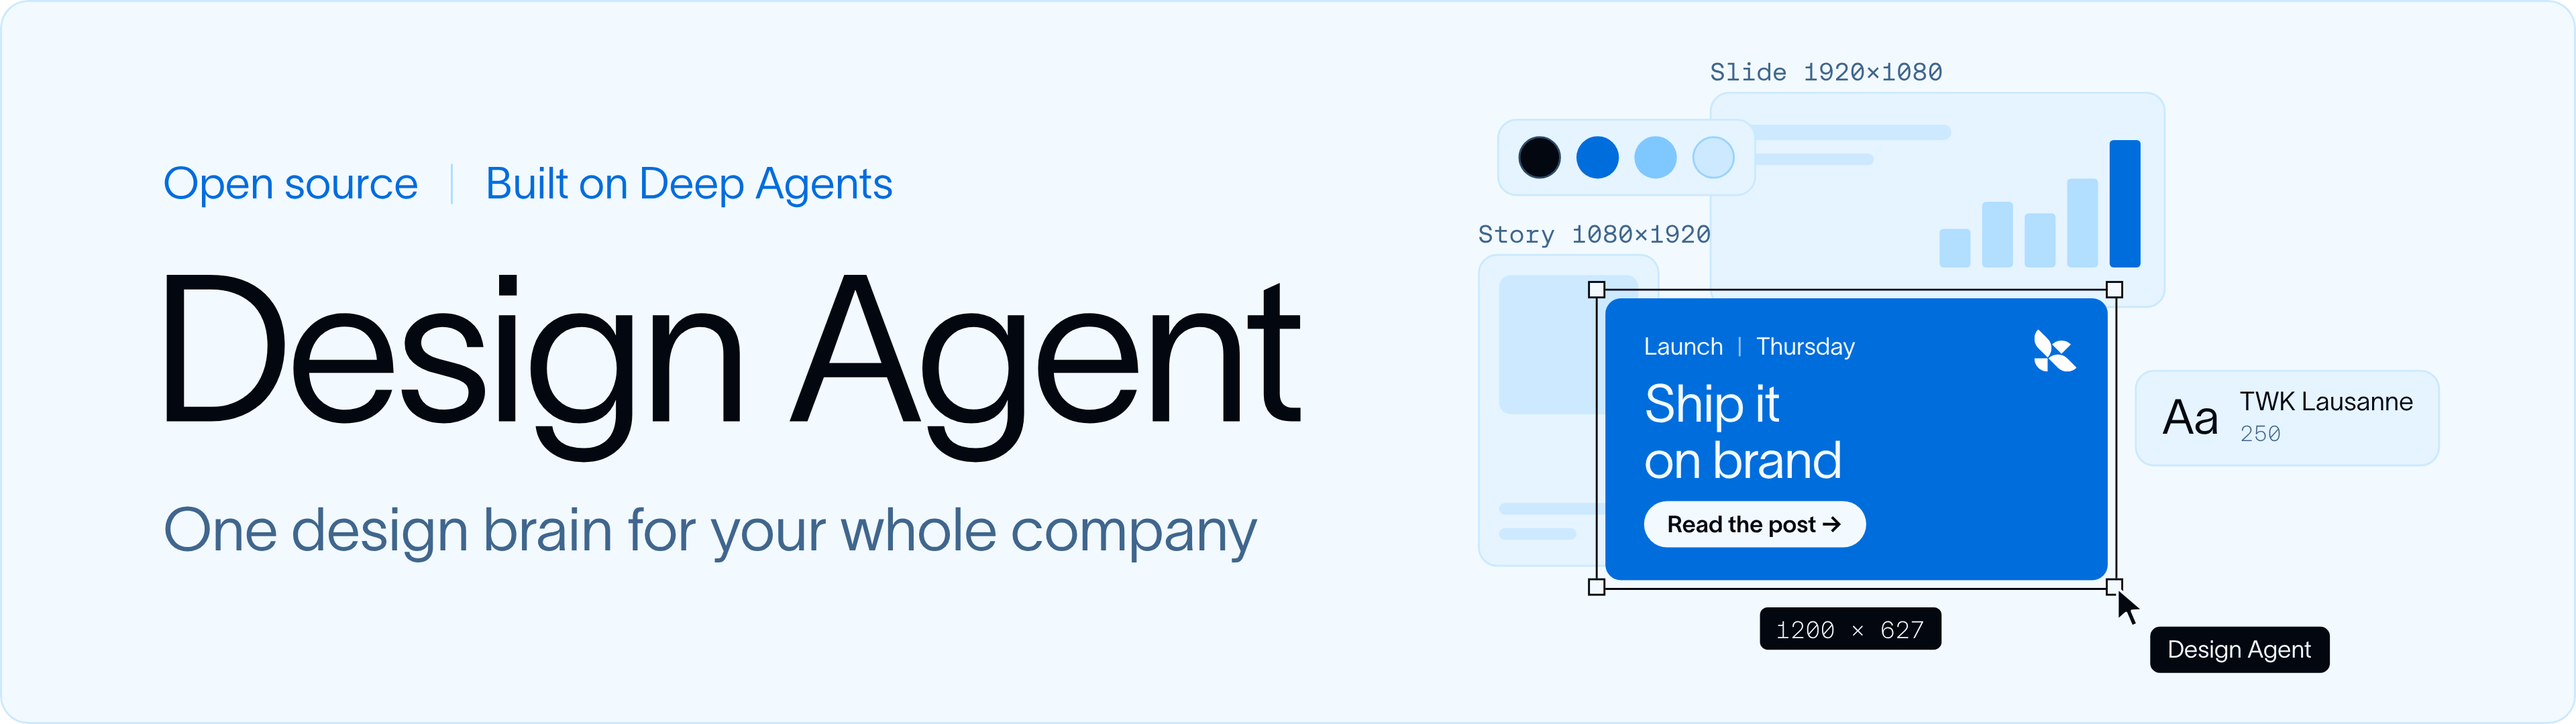
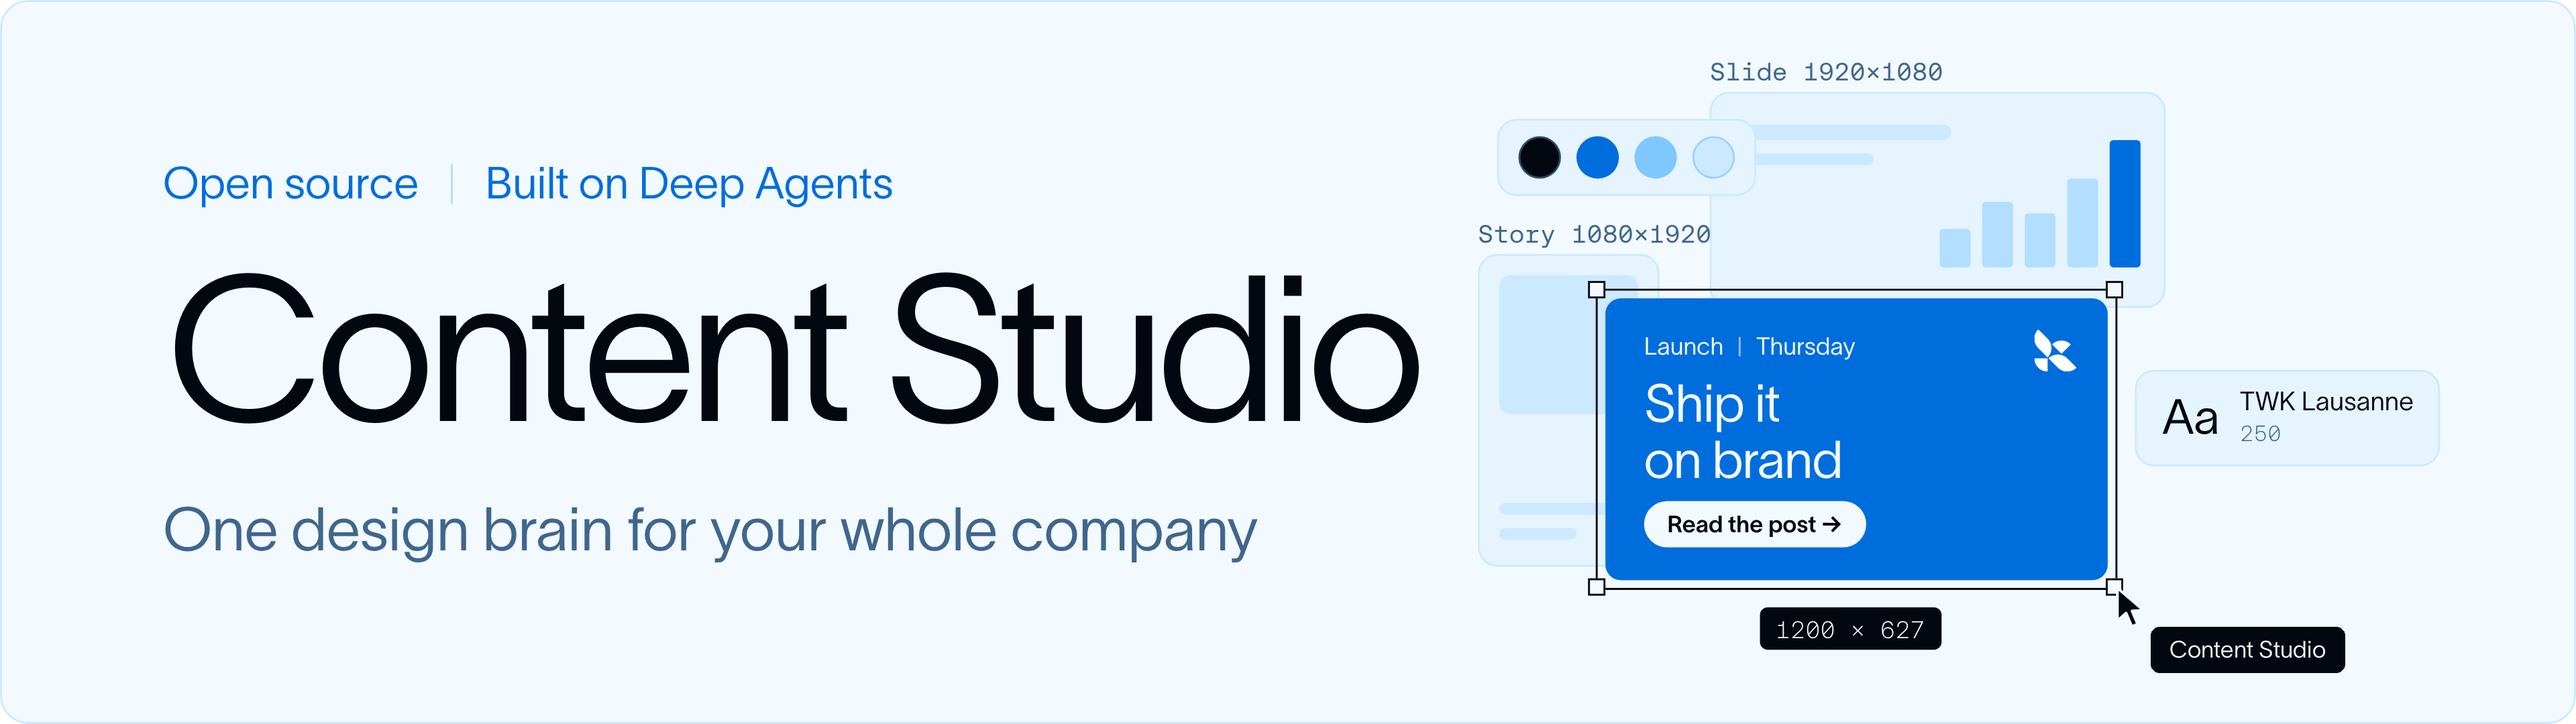
README: launch as Content Studio, with its films, the architecture and real examples (#24)
* README: launch as Content Studio, with the launch film, the explainer, the architecture and real examples

The public face takes the launch name: the header and hero art, the README copy and the Slack
app's default name say Content Studio, while the repository, package and command stay
design-agent. The README leads with Content Studio's own launch film, shows the work it shipped
and the same-prompt comparison, puts the architecture and the newest explainer film under How it
works, and links the blog post. The public-hygiene rule now allows the name where the project
presents itself.

* Format the hygiene rule

* README: dark figures, and logo and badges that switch in dark mode

The architecture and same-prompt figures get their dark versions through <picture>. The logo
and badges wrapped their <picture> in a link, which GitHub's renderer splits, leaving the light
image in dark mode; the link now goes inside the picture.

* README: How it works right after the film, Questions near the end

See it work, then How it works (the architecture, what's built and the explainer), then why it
looks on brand, then Quickstart, local, customizing and questions.

* README: drop the shipped-work wall; the intro already gives its numbers

* README: a launch-film thumbnail, and lead-ins for both films

* README: How it works for engineers: request path, sandbox, keys, skills, subagents, wake-ups, Slack

* README: How it works in the blog's terms, short
[…]

Changed region(s): [[0.0625, 0.3667, 0.5625, 0.6417], [0.8438, 0.8861, 0.9375, 0.9167]]

diff --git a/tests/unit/test_public_hygiene.py b/tests/unit/test_public_hygiene.py
@@ -50,7 +50,16 @@ def _rule(category: str, pattern: str, *allowed: str) -> Rule:
 SPEC_DOCS = ("AGENTS.md", "docs/*.md", "docs/**/*.md")
 
 RULES: tuple[Rule, ...] = (
-    _rule("internal codename", r"(?i)content[\s_-]?studio", "NOTICE.md"),
+    _rule(
+        "public agent name outside its presentation",
+        r"(?i)content[\s_-]?studio",
+        "AGENTS.md",
+        "NOTICE.md",
+        "README.md",
+        "docs/assets/readme/*",
+        "src/design_agent/config.py",
+        ".env.example",
+    ),
     _rule("internal repository", r"(?i)langchain[-_]media"),
     _rule(
         "company brand asset",
@@ -209,7 +218,10 @@ def test_internal_build_notes_are_gone() -> None:
 @pytest.mark.parametrize(
     ("line", "category"),
     [
-        ("Ported from the internal Content Studio agent", "internal codename"),
+        (
+            "Ported from the internal Content Studio agent",
+            "public agent name outside its presentation",
+        ),
         ("color: var(--lc-ink);", "company brand asset"),
         ("mail the team at ops@langchain.dev", "company email"),
         ("https://my-agent-1234.us.langgraph.app/threads", "LangSmith workspace or deployment URL"),

diff --git a/src/design_agent/config.py b/src/design_agent/config.py
@@ -173,7 +173,7 @@ class Settings(BaseSettings):
     # MDA Slack appearance
     # MDA's own rule for a Slack app name; checked here so a bad name fails before a deploy does.
     slack_name: str = Field(
-        default="Design Agent",
+        default="Content Studio",
         max_length=35,
         pattern=r"^[A-Za-z0-9_.](?:[A-Za-z0-9 _.\-]*[A-Za-z0-9_.])?$",
     )

diff --git a/README.md b/README.md
@@ -1,46 +1,101 @@
 <div align="center">
   <p>
-    <a href="https://www.langchain.com/?utm_source=github&utm_medium=readme&utm_campaign=design-agent">
-      <picture>
-        <source media="(prefers-color-scheme: dark)" srcset="https://github.com/langchain-ai/design-agent/raw/main/docs/assets/readme/logos/langchain-company-dark.svg">
-        <img src="https://github.com/langchain-ai/design-agent/raw/main/docs/assets/readme/logos/langchain-company-light.svg" alt="LangChain" width="152">
-      </picture>
-    </a>
+    <picture>
+      <source media="(prefers-color-scheme: dark)" srcset="https://github.com/langchain-ai/design-agent/raw/main/docs/assets/readme/logos/langchain-company-dark.svg">
+      <a href="https://www.langchain.com/?utm_source=github&utm_medium=readme&utm_campaign=design-agent"><img src="https://github.com/langchain-ai/design-agent/raw/main/docs/assets/readme/logos/langchain-company-light.svg" alt="LangChain" width="152"></a>
+    </picture>
   </p>
   <picture>
     <source media="(prefers-color-scheme: dark)" srcset="https://github.com/langchain-ai/design-agent/raw/main/docs/assets/readme/header-dark.png">
-    <img src="https://github.com/langchain-ai/design-agent/raw/main/docs/assets/readme/header-light.png" alt="Design Agent: one design brain for your whole company" width="100%">
+    <img src="https://github.com/langchain-ai/design-agent/raw/main/docs/assets/readme/header-light.png" alt="Content Studio: one design brain for your whole company" width="100%">
   </picture>
   <p>
-    <a href="LICENSE"><picture><source media="(prefers-color-scheme: dark)" srcset="https://shieldcn.dev/badge/license-Apache%202.0-7FC8FF.svg?variant=outline&logo=lu:Scale&mode=dark"><img src="https://shieldcn.dev/badge/license-Apache%202.0-006DDD.svg?variant=outline&logo=lu:Scale&mode=light" alt="License: Apache 2.0"></picture></a>
-    <a href="https://www.python.org"><picture><source media="(prefers-color-scheme: dark)" srcset="https://shieldcn.dev/badge/python-3.11%2B-7FC8FF.svg?variant=outline&logo=python&mode=dark"><img src="https://shieldcn.dev/badge/python-3.11%2B-006DDD.svg?variant=outline&logo=python&mode=light" alt="Python 3.11+"></picture></a>
-    <a href="https://github.com/langchain-ai/deepagents"><picture><source media="(prefers-color-scheme: dark)" srcset="https://shieldcn.dev/badge/built%20on-Deep%20Agents-7FC8FF.svg?variant=outline&logo=lu:Layers&mode=dark"><img src="https://shieldcn.dev/badge/built%20on-Deep%20Agents-006DDD.svg?variant=outline&logo=lu:Layers&mode=light" alt="Built on Deep Agents"></picture></a>
-    <a href="https://docs.langchain.com/langsmith/python/managed-deep-agents-overview?utm_source=github&utm_medium=readme&utm_campaign=design-agent"><picture><source media="(prefers-color-scheme: dark)" srcset="https://shieldcn.dev/badge/deploy-Managed%20Deep%20Agents-7FC8FF.svg?variant=outline&logo=lu:Rocket&mode=dark"><img src="https://shieldcn.dev/badge/deploy-Managed%20Deep%20Agents-006DDD.svg?variant=outline&logo=lu:Rocket&mode=light" alt="Deploy with Managed Deep Agents"></picture></a>
+    <picture><source media="(prefers-color-scheme: dark)" srcset="https://shieldcn.dev/badge/license-Apache%202.0-7FC8FF.svg?variant=outline&logo=lu:Scale&mode=dark"><a href="LICENSE"><img src="https://shieldcn.dev/badge/license-Apache%202.0-006DDD.svg?variant=outline&logo=lu:Scale&mode=light" alt="License: Apache 2.0"></a></picture>
+    <picture><source media="(prefers-color-scheme: dark)" srcset="https://shieldcn.dev/badge/python-3.11%2B-7FC8FF.svg?variant=outline&logo=python&mode=dark"><a href="https://www.python.org"><img src="https://shieldcn.dev/badge/python-3.11%2B-006DDD.svg?variant=outline&logo=python&mode=light" alt="Python 3.11+"></a></picture>
+    <picture><source media="(prefers-color-scheme: dark)" srcset="https://shieldcn.dev/badge/built%20on-Deep%20Agents-7FC8FF.svg?variant=outline&logo=lu:Layers&mode=dark"><a href="https://github.com/langchain-ai/deepagents"><img src="https://shieldcn.dev/badge/built%20on-Deep%20Agents-006DDD.svg?variant=outline&logo=lu:Layers&mode=light" alt="Built on Deep Agents"></a></picture>
+    <picture><source media="(prefers-color-scheme: dark)" srcset="https://shieldcn.dev/badge/deploy-Managed%20Deep%20Agents-7FC8FF.svg?variant=outline&logo=lu:Rocket&mode=dark"><a href="https://docs.langchain.com/langsmith/python/managed-deep-agents-overview?utm_source=github&utm_medium=readme&utm_campaign=design-agent"><img src="https://shieldcn.dev/badge/deploy-Managed%20Deep%20Agents-006DDD.svg?variant=outline&logo=lu:Rocket&mode=light" alt="Deploy with Managed Deep Agents"></a></picture>
   </p>
   <p>
-    <b><a href="#quickstart">Distribute the design agent to your team →</a></b> ·
+    <b><a href="#quickstart">Distribute Content Studio to your team →</a></b> ·
     <a href="#try-it-locally">Try it locally, no keys needed</a> ·
+    <a href="https://www.langchain.com/blog/how-we-built-our-design-agent?utm_source=github&utm_medium=readme&utm_campaign=design-agent">How we built it</a> ·
     <a href="docs/README.md">Docs</a>
   </p>
 </div>
 
-**The design agent LangChain runs, open source.** Add your brand and deploy it to your team's Slack
-with Managed Deep Agents. Anyone can ask it like they'd ask a designer, attach what they have, and
+**Content Studio is the design agent LangChain runs, now open source.** Add your brand and deploy it
+to your team's Slack with Managed Deep Agents. Anyone can ask it like they'd ask a designer, attach what they have, and
 get finished, on-brand files back, from a resized ad to a launch film.
 
 Since August it has shipped over 3,000 assets for us, posts with its work drew about 4.5M views on
-X, and three in four requests come from outside marketing.
+X, and three in four requests come from outside marketing. [How we built it](https://www.langchain.com/blog/how-we-built-our-design-agent?utm_source=github&utm_medium=readme&utm_campaign=design-agent) goes deeper
+into each part.
 
 ## See it work
 
+We asked Content Studio for its own launch film. It went full Rocky.
+
+https://github.com/user-attachments/assets/1874d6ea-2457-4349-a6c4-45ada6312f13
+
+<p align="center"><sub>From a 1-bit chick to champion in 47 seconds.</sub></p>
+
+## How it works
+
+Content Studio is a [Deep Agents](https://github.com/langchain-ai/deepagents) agent deployed on
+[Managed Deep Agents](https://docs.langchain.com/langsmith/python/managed-deep-agents-overview?utm_source=github&utm_medium=readme&utm_campaign=design-agent).
+Managed Deep Agents runs the infrastructure: Slack, sandboxes, memory, schedules and tracing. This
+repo is the design agent on top. The model makes the creative calls, and code renders, checks and
+delivers.
+
+<p align="center">
+  <picture>
+    <source media="(prefers-color-scheme: dark)" srcset="https://github.com/langchain-ai/design-agent/raw/main/docs/assets/readme/architecture-dark.png">
+    <img src="https://github.com/langchain-ai/design-agent/raw/main/docs/assets/readme/architecture-light.png" alt="Content Studio on Managed Deep Agents: a Slack thread goes to the main agent, which reads skills and the wiki, keeps team and personal memory, uses managed tools and MCP servers with each person's own account, and works in a sandbox per thread with Chromium, ffmpeg, HyperFrames, motion-studio and async subagents in parallel, then posts the film back to the same thread" width="100%">
+  </picture>
+</p>
+
+<p align="center"><sub>How we run it at LangChain. Your copy starts with the integrations you turn on (<a href="docs/integrations.md">Integrations</a>).</sub></p>
+
+- **Slack.** Mention it in a thread with a brief and any files. MDA's Slack app hands the message
+  and attachments to the agent, and the finished files come back to the same thread. While it
+  works, one message updates step by step, a footer shows what's running and the cost so far, and
+  anything you add mid-job reaches the work in progress.
+- **A computer per thread.** Each thread gets its own LangSmith sandbox: a Linux machine with
+  Chrome, FFmpeg, [HyperFrames](https://hyperframes.heygen.com), D2 and your fonts, built from one
+  pinned recipe ([`sandbox/setup.sh`](sandbox/)). Everything it makes is code in a project folder
+  there (a slide is HTML, a film is an animation timeline), so a change is an edit and a re-render,
+  not a restart. API keys never enter it.
+- **Skills and a design wiki.** The always-on prompt is small. For each ask it first reads a router
+  skill that picks the right workflow, from a resized ad to a launch film, out of 35
+  [skills](skills/). The wiki holds the craft (type, colour, layout, charts) and your brand pack
+  holds the facts. Skills load only when a job needs them, served by MDA from Context Hub.
+- **Your tools.** Video is built in HyperFrames, which treats a film as a web page on a timeline.
+  [Paper](https://paper.design) is a shared canvas where you edit a storyboard or layout directly.
+  Image, voice and music models run as tools outside the sandbox, and MCP servers like Notion,
+  Linear, GitHub and Figma connect through MDA, with each person signed in as themselves.
+- **Async subagents.** On a big job the main agent plans, splits the work and starts subagents in
+  the background on the same sandbox and files. MDA wakes it when one finishes, fails or stalls, so
+  it never sits waiting and can keep talking to you. Films go storyboard, animatic, then
+  production, and code makes every part pass review before assembly.
+- **Memory.** Tell it a rule once ("never use orange on LinkedIn") and it saves it that turn. MDA
+  gives it two layers of files: team memory everyone shares and personal memory for each person,
+  and each layer's index loads into every run.
+- **It gets better.** After a job, `learn_from_job` writes notes on what worked against the skill
+  it used. Later jobs read and rate those notes, and the ones that don't hold up are dropped.
+
+### Watch it explain itself
+
+We asked it to explain its own harness as a nature documentary, starring a pixel parrot. It walks
+through the computer, the tools and the context behind its work.
+
 https://github.com/user-attachments/assets/0664d09d-2ab2-41fd-b2ba-f91c96121e20
 
-<p align="center"><sub>One Slack request for a launch film: the plan, the storyboard, helpers rendering in parallel, the checks and the final cut.</sub></p>
+<p align="center"><sub>Storyboarded, built and narrated by the agent, in one Slack thread.</sub></p>
 
 <details>
-<summary>The prompts that made this film</summary>
+<summary>The prompt that made this film</summary>
 
-The agent made it in one Slack thread, from this ask and a few rounds of notes:
+The agent made it from this ask and a few rounds of notes:
 
 > Make a short explainer of how you create videos in code, end to end, for our blog post on the
 > media harness we built on Deep Agents. Narrate it like a David Attenborough nature documentary,
@@ -50,28 +105,38 @@ The agent made it in one Slack thread, from this ask and a few rounds of notes:
 
 </details>
 
+Read the [architecture](docs/architecture/README.md), or start changing it:
+[instructions.md](instructions.md) · [skills/](skills/) · [Customization](docs/customization.md) ·
+[Evals](docs/evals.md) · [Operations](OPERATIONS.md) · [Contributing](CONTRIBUTING.md).
+
+## Why it doesn't look like AI
+
+<p align="center">
+  <picture>
+    <source media="(prefers-color-scheme: dark)" srcset="https://github.com/langchain-ai/design-agent/raw/main/docs/assets/readme/same-prompt-dark.png">
+    <img src="https://github.com/langchain-ai/design-agent/raw/main/docs/assets/readme/same-prompt-light.png" alt="The same prompt for a hiring chart to a local coding agent with a brand skill and to Content Studio: a broken logo lockup, a generic font, no axis and an off-brand bar on the left; a clean lockup, the brand typeface, an axis with gridlines and brand-blue bars on the right" width="100%">
+  </picture>
+</p>
+
+<p align="center"><sub>The same prompt to a local coding agent with a brand skill, and to Content Studio.</sub></p>
+
+- **It looks at its work.** It renders, then looks at the image before it posts anything.
+- **Your brand is code.** Layouts only take your tokens: your colours, fonts and spacing.
+- **It checks what a machine can count.** Colours, fonts, contrast, sizes and chart math are checked
+  in code on every render. Taste stays with your designers.
+
+<p align="center">
+  <img src="docs/assets/readme/hero.png" alt="The agent's computer: a Slack request for a launch film, project folders, a HyperFrames render in the terminal, the film preview, layers and references" width="100%">
+</p>
+
+## Quickstart
+
 | Building it yourself | Starting here |
 | --- | --- |
 | Months on a harness, a sandbox, skills and a Slack UX | Fork it, add your brand, deploy with one command |
 | Polished work that looks like a hundred others | Work that follows your brand, checked on every render |
 | Design requests wait in a queue | Anyone asks in Slack: a graphic in minutes, a long deck overnight |
 | Every team fixes the same mistakes | Fix a skill once, and every asset after it follows |
-
-## What's already built
-
-- **Your designers' judgment:** 35 skills and a design wiki for stills, decks, charts, diagrams,
-  storyboards, motion, sound and thumbnails, and your brand as one pack of colours, fonts, logos
-  and voice, checked in code on every render.
-- **A designer's computer for every thread,** with Chrome, FFmpeg,
-  [HyperFrames](https://hyperframes.heygen.com), D2 and your fonts, plus a shared
-  [Paper](https://paper.design) canvas for storyboards and layouts. Keys stay outside it.
-- **Slack that holds up on long jobs:** a lead that plans and gives an ETA, takes notes mid-job,
-  hands long work to helpers (subagents) running in parallel, and asks before anything goes
-  public.
-- **Everything to run it on Managed Deep Agents:** a sandbox per thread, the Slack app, schedules
-  and tracing, plus evals built from real requests.
-
-## Quickstart
 
 This repository is a [Managed Deep Agents](https://docs.langchain.com/langsmith/python/managed-deep-agents-overview?utm_source=github&utm_medium=readme&utm_campaign=design-agent) project, so it deploys to your LangSmith
 workspace as it is. You need MDA access and a model key:
@@ -119,19 +184,6 @@ last line tells you what the run cost:
 uv run design-agent ask "A LinkedIn card announcing our design review service, 1200x627."
 ```
 
-## Why it doesn't look like AI
-
-- **It looks at its work.** It renders, then looks at the image before it posts anything.
-- **Your brand is code.** Layouts only take your tokens: your colours, fonts and spacing.
-- **It checks what a machine can count.** Colours, fonts, contrast, sizes and chart math are checked
-  in code on every render. Taste stays with your designers.
-- **Big pieces start cheap.** A film starts as a plan and a storyboard, and nothing renders until you
-  say yes.
-
-<p align="center">
-  <img src="docs/assets/readme/hero.png" alt="The agent's computer: a Slack request for a launch film, project folders, a HyperFrames render in the terminal, the film preview, layers and references" width="100%">
-</p>
-
 ## Make it yours
 
 | Want | Add | Guide |
@@ -173,19 +225,11 @@ endpoint and the LangSmith Gateway work too. See [Models](docs/models.md).
 **Can I run it on my own servers?** Yes. It's Apache 2.0, and [Self-hosting](docs/self-hosting.md)
 runs the same agent with Docker, an HTTP API and your own Slack app.
 
+**Why two names?** Content Studio is what we call the agent at LangChain, and the name its Slack app
+gets unless you set `DESIGN_AGENT_SLACK_NAME`. The repository, package and command are `design-agent`.
+
 **Does it replace a designer?** No. It takes the repetitive requests, so designers spend their time on
 the work only they can do, and their judgment lives on in its skills and checks.
-
-## How it works
-
-The model makes the creative calls. Code does everything that has to be exactly right: rendering,
-measuring, checking, delivering files and holding your keys. It's built on the
-[Deep Agents](https://github.com/langchain-ai/deepagents) harness and runs on
-[Managed Deep Agents](https://docs.langchain.com/langsmith/python/managed-deep-agents-overview?utm_source=github&utm_medium=readme&utm_campaign=design-agent).
-
-Read the [architecture](docs/architecture/README.md), or start changing it:
-[instructions.md](instructions.md) · [skills/](skills/) · [Customization](docs/customization.md) ·
-[Evals](docs/evals.md) · [Operations](OPERATIONS.md) · [Contributing](CONTRIBUTING.md).
 
 **Build your own.** Fork it, add your brand tokens, fonts and skills, and deploy it to your team's
 Slack. [Quickstart](#quickstart). If it's useful, a star helps other teams find it.

diff --git a/AGENTS.md b/AGENTS.md
@@ -104,8 +104,10 @@ behind them.
   the brand folder. Large results go to files with compact summaries.
 - Do not copy private company data, internal people, channels, accounts, licensed fonts,
   third-party footage or internal implementation notes into this repository. LangChain's brand
-  appears only in the README and `docs/assets/readme/` (the project's own presentation: figures
-  exported from its Paper designs and its explainer film); the agent's sample brand, skills, examples and tests stay brand-neutral.
+  and the agent's public name, Content Studio, appear only in the README and `docs/assets/readme/`
+  (the project's own presentation: figures exported from its Paper designs and its films) and as the
+  default Slack app name; the code, the agent's sample brand, skills, examples and tests stay
+  brand-neutral and say Design Agent.
 
 ## Change discipline
 
